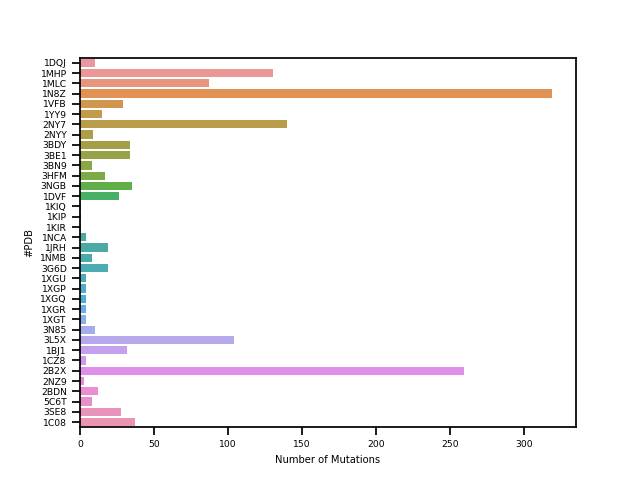
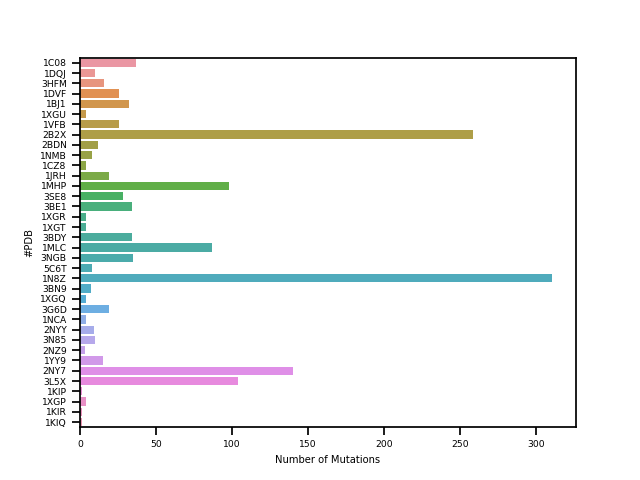
more final data edits

diff --git a/prerelax_test.py b/prerelax_test.py
@@ -8,14 +8,17 @@ init('-ex1 -ex2 -linmem_ig 10')  # add -ex1 -ex2
 
 """NOTE ON CONSTRAINTS: going to try overnight testing the relax.constrain_relax_to_start_coords(True),
 but may want to actually loop through and do all the constraints for all the carbon atoms within 9, etc.
-using a residue selector (to generate a .cst file?) then apply the cst file to the pose and score fxn."""
+using a residue selector (to generate a .cst file?) then apply the cst file to the pose and score fxn.
+NOTE: That didn't finish, it didn't even start fast relax. Almost got done with all the rotamers."""
 
-data = pd.read_csv("./raw_datasets/interface_data_use.csv")
-pdbs = data["#PDB"].unique()
-poses = []
-for pdb in pdbs:
-    pose = pose_from_pdb(f"./PDBs/{pdb}.pdb")
-    poses.append(pose)
+
+
+# data = pd.read_csv("./raw_datasets/interface_data_use.csv")
+# pdbs = data["#PDB"].unique()
+# poses = []
+# for pdb in pdbs:
+#     pose = pose_from_pdb(f"./PDBs/{pdb}.pdb")
+#     poses.append(pose)
 
 scorefxn = get_fa_scorefxn()
 fr = FastRelax()

diff --git a/raw_datasets/cleaning.py b/raw_datasets/cleaning.py
@@ -29,7 +29,7 @@ kiyoshi_etal = dc.pd.read_csv(
 phillips_etal_cr6261 = dc.pd.read_csv(
     "~/rosetta-antibody-ddgs/raw_datasets/phillips_etal_CR6261_H1.csv")
 phillips_etal_cr9114 = dc.pd.read_csv(
-    "~/rosetta-antibody-ddgs/raw_datasets/phillips_etal_CR9114_H3.csv")
+    "~/rosetta-antibody-ddgs/raw_datasets/phillips_etal_CR9114_H3_filt.csv")
 
 # CLEANING
 

diff --git a/raw_datasets/data_cleaners.py b/raw_datasets/data_cleaners.py
@@ -46,6 +46,8 @@ def skempi_rename(file_df: pd.DataFrame):
     skempi = file_df.copy(True)
 
     skempi.rename(columns={"Mutation Pdb": "Mutations"}, inplace=True)
+    skempi["LD"] = skempi["Mutations"].apply(
+        lambda x: x.count(";") + 1)
     skempi["Source"] = "SKEMPI 2.0"  # Naming source for final dataset
 
     return skempi

diff --git a/stats.py b/stats.py
@@ -10,7 +10,7 @@ import re
 
 sns.set_context("notebook", font_scale = 0.6)
 
-data = pd.read_csv("~/rosetta-antibody-ddgs/raw_datasets/use_this_data.csv")
+data = pd.read_csv("~/rosetta-antibody-ddgs/raw_datasets/interface_data_use.csv")
 
 ### Plotting average LD per PDB
 
